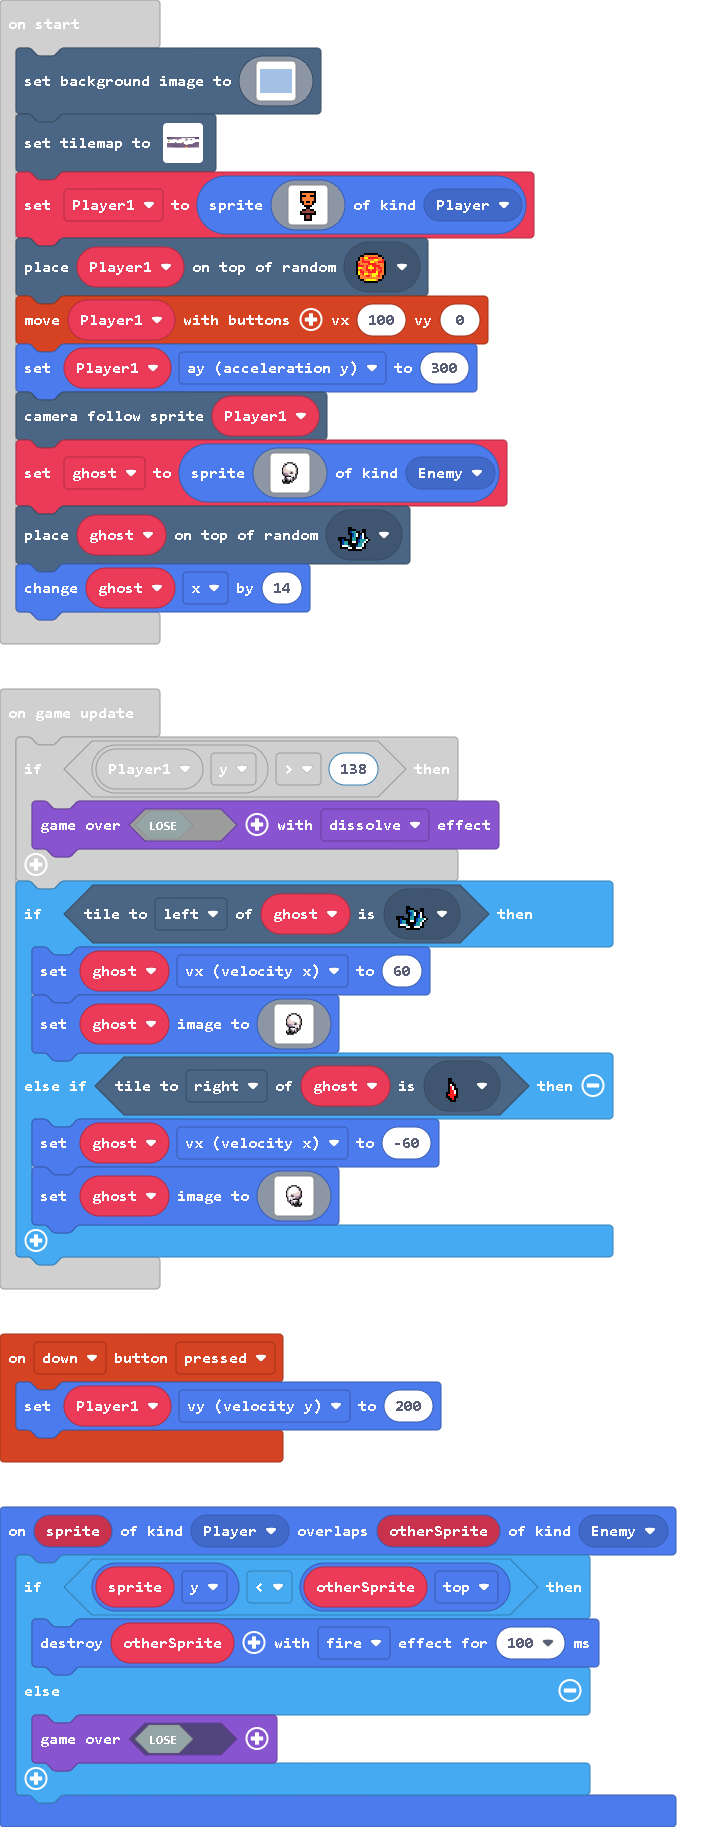
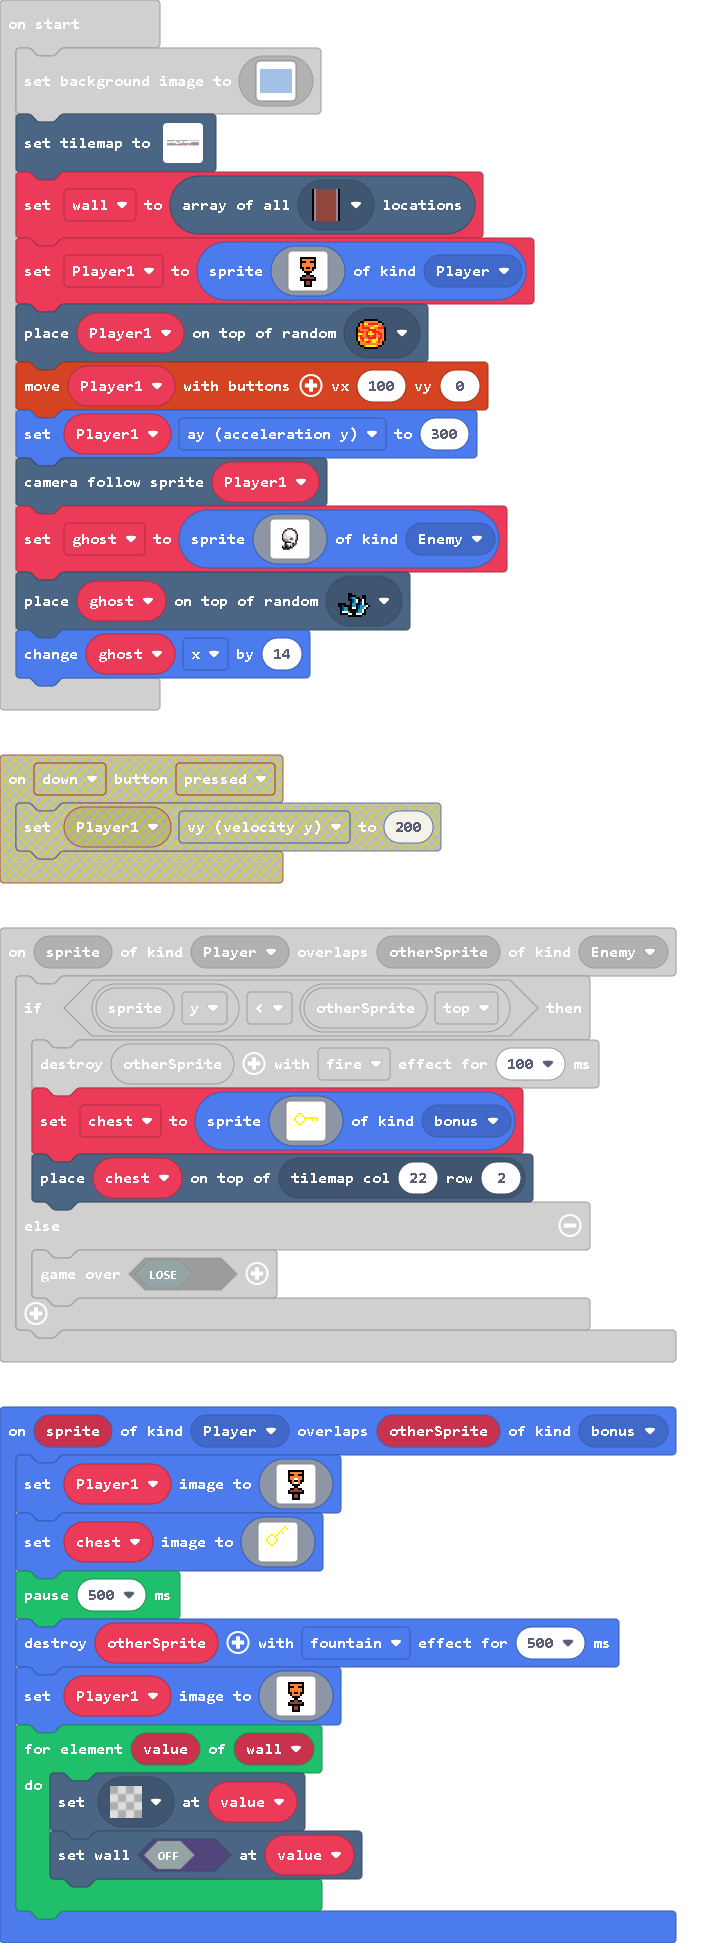
Update pxt.json, main.blocks, main.ts, tilemap.g.jres, tilemap.g.ts

diff --git a/main.ts b/main.ts
@@ -1,19 +1,102 @@
+namespace SpriteKind {
+    export const bonus = SpriteKind.create()
+}
 controller.up.onEvent(ControllerButtonEvent.Pressed, function () {
     if (Player1.vy == 0) {
         Player1.vy = -150
     }
 })
-controller.down.onEvent(ControllerButtonEvent.Pressed, function () {
-    Player1.vy = 200
+sprites.onOverlap(SpriteKind.Player, SpriteKind.bonus, function (sprite, otherSprite) {
+    Player1.setImage(img`
+        . . . . . . . . . . . . . . . . 
+        . . . . f f f f f f f f . . . . 
+        . . . . f 4 4 4 4 4 4 f . . . . 
+        . . . . f f f 4 4 f f f . . . . 
+        . . . . f 4 4 4 4 4 4 f . . . . 
+        . . . . f 4 4 1 1 4 4 f . . . . 
+        . . . . f f 4 f f 4 f f . . . . 
+        . . . . . f 4 1 1 4 f . . . . . 
+        . . . . . . f f f f . . . . . . 
+        . . . . . . . f f . . . . . . . 
+        . . . . . f f e e f f . . . . . 
+        . . . . f e e e e e e f . . . . 
+        . . . . f f f f f f f f . . . . 
+        . . . . . . f e e f . . . . . . 
+        . . . . . . f e e f . . . . . . 
+        . . . . . . f f f f . . . . . . 
+        `)
+    chest.setImage(img`
+        . . . . . . . . . . . 5 . . . . 
+        . . . . . . . . . . 5 . 5 . . . 
+        . . . . . . . . . 5 . . . . . . 
+        . . . . . . . . 5 . 5 . . . . . 
+        . . . . 5 5 . 5 . . . . . . . . 
+        . . . 5 . . 5 . . . . . . . . . 
+        . . 5 . . . . 5 . . . . . . . . 
+        . . 5 . . . . 5 . . . . . . . . 
+        . . . 5 . . 5 . . . . . . . . . 
+        . . . . 5 5 . . . . . . . . . . 
+        . . . . . . . . . . . . . . . . 
+        . . . . . . . . . . . . . . . . 
+        . . . . . . . . . . . . . . . . 
+        . . . . . . . . . . . . . . . . 
+        . . . . . . . . . . . . . . . . 
+        . . . . . . . . . . . . . . . . 
+        `)
+    pause(500)
+    otherSprite.destroy(effects.fountain, 500)
+    Player1.setImage(img`
+        . . . . . . . . . . . . . . . . 
+        . . . . f f f f f f f f . . . . 
+        . . . . f 4 4 4 4 4 4 f . . . . 
+        . . . . f f f 4 4 f f f . . . . 
+        . . . . f 4 4 4 4 4 4 f . . . . 
+        . . . . f 4 4 4 4 4 4 f . . . . 
+        . . . . f f 4 f f 4 f f . . . . 
+        . . . . . f 4 4 4 4 f . . . . . 
+        . . . . . . f f f f . . . . . . 
+        . . . . . . . f f . . . . . . . 
+        . . . . . f f e e f f . . . . . 
+        . . . . f e e e e e e f . . . . 
+        . . . . f f f f f f f f . . . . 
+        . . . . . . f e e f . . . . . . 
+        . . . . . . f e e f . . . . . . 
+        . . . . . . f f f f . . . . . . 
+        `)
+    for (let value of wall) {
+        tiles.setTileAt(value, myTiles.transparency16)
+        tiles.setWallAt(value, false)
+    }
 })
 sprites.onOverlap(SpriteKind.Player, SpriteKind.Enemy, function (sprite, otherSprite) {
     if (sprite.y < otherSprite.top) {
         otherSprite.destroy(effects.fire, 100)
+        chest = sprites.create(img`
+            . . . . . . . . . . . . . . . . 
+            . . . . . . . . . . . . . . . . 
+            . . . . . . . . . . . . . . . . 
+            . . . . . . . . . . . . . . . . 
+            . . . . 5 5 . . . . . . . . . . 
+            . . . 5 . . 5 . . . . . . . . . 
+            . . 5 . . . . 5 5 5 5 5 5 5 . . 
+            . . 5 . . . . 5 . . . 5 . 5 . . 
+            . . . 5 . . 5 . . . . . . . . . 
+            . . . . 5 5 . . . . . . . . . . 
+            . . . . . . . . . . . . . . . . 
+            . . . . . . . . . . . . . . . . 
+            . . . . . . . . . . . . . . . . 
+            . . . . . . . . . . . . . . . . 
+            . . . . . . . . . . . . . . . . 
+            . . . . . . . . . . . . . . . . 
+            `, SpriteKind.bonus)
+        tiles.placeOnTile(chest, tiles.getTileLocation(22, 2))
     } else {
         game.over(false)
     }
 })
+let chest: Sprite = null
 let Player1: Sprite = null
+let wall: tiles.Location[] = []
 scene.setBackgroundImage(img`
     8888888888888888888888888888888888888888888888888888888888888888888888888888888888888888888888888888888888888888888888888888888888888888888888888888888888888888
     8888888888888888888888888888888888888888888888888888888888888888888888888888888888888888888888888888888888888888888888888888888888888888888888888888888888888888
@@ -136,18 +219,19 @@ scene.setBackgroundImage(img`
     8888888888888888888888888888888888888888888888888888888888888888888888888888888888888888888888888888888888888888888888888888888888888888888888888888888888888888
     8888888888888888888888888888888888888888888888888888888888888888888888888888888888888888888888888888888888888888888888888888888888888888888888888888888888888888
     `)
[1 lines of base64/hex data omitted]
-    ...............................
-    ...........................2222
-    ...............................
-    ...............................
-    ...............................
-    ...........................2222
-    2222222222222222.........222...
-    ...............222..222222.....
-    .................2..2..........
-    .................2..2..........
-    `, [myTiles.transparency16,sprites.dungeon.darkGroundNorth,sprites.dungeon.darkGroundNorthEast0,sprites.dungeon.darkGroundCenter,sprites.dungeon.darkGroundNorthWest0,sprites.dungeon.darkGroundEast,sprites.dungeon.darkGroundWest,sprites.dungeon.darkGroundSouth,sprites.dungeon.darkGroundSouthEast0,sprites.dungeon.darkGroundNorthWest1,myTiles.tile3,myTiles.tile4,myTiles.tile5,sprites.dungeon.hazardLava0,myTiles.tile7,myTiles.tile8,myTiles.tile9,sprites.dungeon.darkGroundSouthWest0,myTiles.tile11,myTiles.tile10,myTiles.tile12,myTiles.tile15,myTiles.tile19], TileScale.Sixteen))
[1 lines of base64/hex data omitted]
+    .....................222222...........2222222222222222222222
+    ...................22......22222222222......................
+    ...................22.........2.............................
+    ...................2222.......2.............................
+    .....................222......2..............222222222222222
+    ...........................222222............2..............
+    2222222222222222.........222.....22222....222...............
+    ...............222..222222...........2....2.................
+    .................2..2................2....2.................
+    .................2..2................2....2.................
+    `, [myTiles.transparency16,sprites.dungeon.darkGroundNorth,sprites.dungeon.darkGroundNorthEast0,sprites.dungeon.darkGroundCenter,sprites.dungeon.darkGroundNorthWest0,sprites.dungeon.darkGroundEast,sprites.dungeon.darkGroundWest,sprites.dungeon.darkGroundSouth,sprites.dungeon.darkGroundSouthEast0,sprites.dungeon.darkGroundNorthWest1,myTiles.tile3,myTiles.tile4,myTiles.tile5,sprites.dungeon.hazardLava0,myTiles.tile7,myTiles.tile8,myTiles.tile9,sprites.dungeon.darkGroundSouthWest0,myTiles.tile11,myTiles.tile10,myTiles.tile12,myTiles.tile15,myTiles.tile20,sprites.dungeon.darkGroundSouthWest1,sprites.dungeon.darkGroundSouthEast1,sprites.dungeon.darkGroundNorthEast1,sprites.dungeon.hazardLava1], TileScale.Sixteen))
+wall = tiles.getTilesByType(myTiles.tile20)
 Player1 = sprites.create(img`
     . . . . . . . . . . . . . . . . 
     . . . . f f f f f f f f . . . . 

diff --git a/tilemap.g.ts b/tilemap.g.ts
@@ -40,6 +40,8 @@ namespace myTiles {
     export const tile18 = image.ofBuffer(hex``);
     //% fixedInstance jres blockIdentity=images._tile
     export const tile19 = image.ofBuffer(hex``);
+    //% fixedInstance jres blockIdentity=images._tile
+    export const tile20 = image.ofBuffer(hex``);
 
     helpers.registerTilemapFactory(function(name: string) {
         switch(helpers.stringTrim(name)) {
